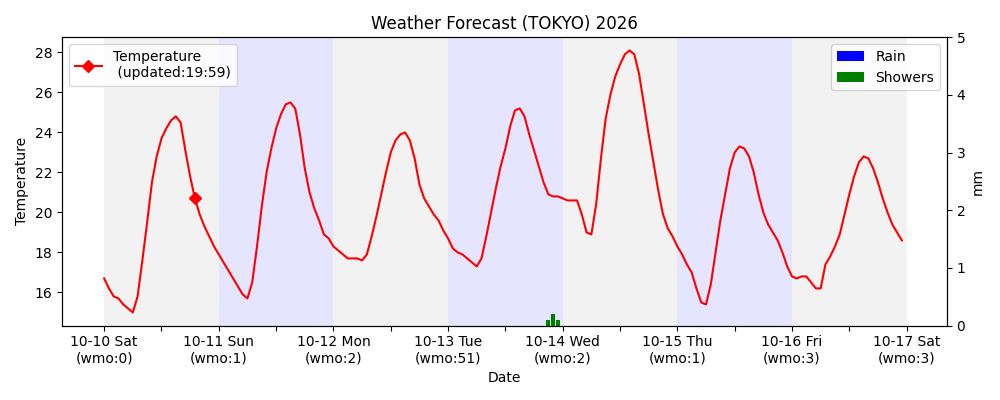
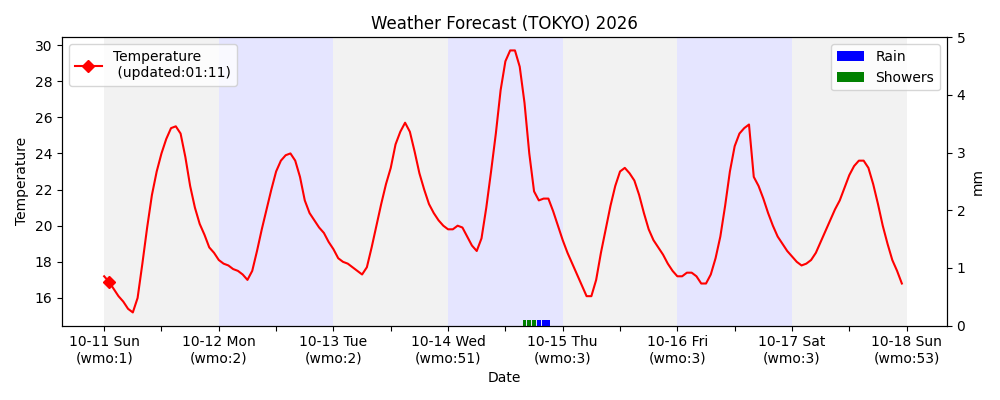
deploy: 1bb196bcdedd97020ef552e9e8359d9822f29f5b

diff --git a/docs/src/dashboard/marketinfo.html b/docs/src/dashboard/marketinfo.html
@@ -6,100 +6,96 @@
             <title>経済・商品市場サマリー</title>
         </head>
         <body>
-            <h1>📊 リアルタイム市場データ (2026/10/10 10:31 時点)</h1>
-            <ul><li><strong>日経平均:</strong> 69042.11 (前日比データ不足)</li><li><strong>NYダウ:</strong> 51654.95 (+0.83%)</li><li><strong>ナスダック:</strong> 27366.17 (+0.64%)</li><li><strong>S&P500:</strong> 7811.54 (+0.59%)</li><li><strong>英FTSE100:</strong> 10441.60 (前日比データ不足)</li><li><strong>独DAX:</strong> 24806.97 (前日比データ不足)</li><li><strong>ドル円 (USD/JPY):</strong> 158.25 (+0.12%)</li><li><strong>ユーロ円 (EUR/JPY):</strong> 177.30 (+0.14%)</li><li><strong>ポンド円 (GBP/JPY):</strong> 209.51 (+0.31%)</li><li><strong>ユーロドル (EUR/USD):</strong> 1.1206 (+0.04%)</li><li><strong>ドルインデックス (DXY):</strong> 102.23 (+0.09%)</li><li><strong>WTI原油先物:</strong> 91.66 (+0.19%)</li><li><strong>ブレント原油先物:</strong> 104.43 (+0.14%)</li><li><strong>天然ガス先物 (米HenryHub):</strong> 3.20 (+1.14%)</li><li><strong>NY金先物 (Gold):</strong> 4220.30 (+1.52%)</li><li><strong>NY銀先物 (Silver):</strong> 61.11 (+3.46%)</li><li><strong>NYプラチナ先物:</strong> 1695.40 (+4.29%)</li><li><strong>COMEX銅先物:</strong> 6.71 (+2.95%)</li><li><strong>CMEアルミニウム先物:</strong> 3191.00 (+1.18%)</li><li><strong>米国債10年物利回り:</strong> 5.244% (+0.013pt)</li><li><strong>米国債2年物利回り:</strong> 4.057% (+0.014pt)</li><li><strong>日本国債10年物利回り:</strong> 配信データなし</li></ul>
+            <h1>📊 リアルタイム市場データ (2026/10/11 00:38 時点)</h1>
+            <ul><li><strong>日経平均:</strong> 69030.92 (-0.02%)</li><li><strong>NYダウ:</strong> 51654.95 (+0.83%)</li><li><strong>ナスダック:</strong> 27366.17 (+0.64%)</li><li><strong>S&P500:</strong> 7811.54 (+0.59%)</li><li><strong>英FTSE100:</strong> 10552.10 (+1.06%)</li><li><strong>独DAX:</strong> 25087.27 (+1.13%)</li><li><strong>ドル円 (USD/JPY):</strong> 158.25 (+0.12%)</li><li><strong>ユーロ円 (EUR/JPY):</strong> 177.10 (-0.07%)</li><li><strong>ポンド円 (GBP/JPY):</strong> 209.51 (+0.31%)</li><li><strong>ユーロドル (EUR/USD):</strong> 1.1206 (+0.04%)</li><li><strong>ドルインデックス (DXY):</strong> 102.21 (+0.07%)</li><li><strong>WTI原油先物:</strong> 91.85 (+0.39%)</li><li><strong>ブレント原油先物:</strong> 104.72 (+0.42%)</li><li><strong>天然ガス先物 (米HenryHub):</strong> 3.22 (+1.64%)</li><li><strong>NY金先物 (Gold):</strong> 4216.30 (+1.43%)</li><li><strong>NY銀先物 (Silver):</strong> 60.67 (+2.72%)</li><li><strong>NYプラチナ先物:</strong> 1679.30 (+3.30%)</li><li><strong>COMEX銅先物:</strong> 6.64 (+1.89%)</li><li><strong>CMEアルミニウム先物:</strong> 3180.00 (+0.83%)</li><li><strong>米国債10年物利回り:</strong> 5.244% (+0.013pt)</li><li><strong>米国債2年物利回り:</strong> 4.057% (+0.014pt)</li><li><strong>日本国債10年物利回り:</strong> 配信データなし</li></ul>
             <hr>
-            <p>直近1週間（2026年10月3日〜10月10日10:31）に確認できる公開情報では、株式市場は中東情勢とエネルギー価格への懸念後退、AI関連への警戒緩和、米金融政策の据え置き観測で支えられました。一方、原油・長期金利・地政学リスクが引き続き市場全体の主要な変動要因です。</p>
+            <p>以下は、検索で確認できた<strong>2026年10月4日〜11日公開・更新情報を中心とするニュースベースの整理</strong>です。原油、LNG、電力、貴金属、LME金属については、今回確認できた検索結果に当該期間の十分な個別報道が含まれていないため、確認できたマクロ要因と、各市場に波及する経路を事実ベースで記載します。</p>
 <h2>📅 主要市場の背景ニュース</h2>
 <ul>
 <li><strong>株価動向の背景</strong></li>
-<li>米国株は、早期の対イラン攻撃再開による原油高懸念が後退したことや、OpenAIの売上高を巡る警戒感が和らいだことで買いが優勢となりました。[1]</li>
-<li>ミシガン大学消費者信頼感指数の内容が、10月FOMCでの金融政策据え置き観測を強め、株式市場を支えました。[1]</li>
-<li>トランプ大統領とプーチン大統領がロシアの軽油供給で合意したと報じられ、燃料価格低下への期待が株価の押し上げ要因となりました。[1]</li>
-<li>直近ではソフトウエア・サービス株が上昇した一方、電気通信サービス株は下落し、AI・成長株を中心にセクター選別が続いています。[1]</li>
+<li>米株は、雇用統計の弱さを受けてインフレ再加速・追加利上げへの懸念が後退し、直近では株式市場が高値圏を維持する流れとなった。前週はS&amp;P 500、NYダウ、ナスダックがそろって上昇したと報じられている。[7]</li>
+<li>9月の米非農業部門雇用者数は29,000人増にとどまり、市場予想を下回った。過去分も下方修正され、7〜8月の雇用増加数は合計で60,000人下方修正された。[5]</li>
+<li>一方、米サービス業の景況感は強く、S&amp;P Globalの9月サービス業PMIは58.7と前月から上昇し、約5年ぶりの高水準となった。雇用の弱さとサービス需要の強さが併存し、金融政策の見方を不安定にしている。[5]</li>
 <li>
-<p>日経平均は、米国株が上昇した一方、CME日経平均先物が大阪取引所終値を下回っており、米株高をそのまま織り込む展開にはなっていません。[2][4]</p>
+<p>日経平均は、米国の追加利上げ観測が後退したことやアジア株高を背景に買われ、10月5日には一時70,000ポイント台に乗せたと報じられた。[7]</p>
 </li>
 <li>
 <p><strong>為替動向の背景</strong></p>
 </li>
-<li>ドル円について、今回確認できた記事では直近の具体的な変動要因を十分に確認できませんでした。</li>
-<li>市場心理としては、米長期金利の高止まりがドルを支えやすい一方、FOMCで政策据え置きが意識される場合には、追加的なドル買いを抑制する要因となります。</li>
-<li>原油価格と米金利、地政学リスクの変化が、ドル円の方向感を左右する組み合わせとなっています。</li>
+<li>ドル円は157円台後半で推移し、米雇用の弱さによる米利上げ観測後退がドルの上値を抑える一方、日米金利差と円売り需要が円安方向の支えとなっている。[7]</li>
+<li>市場では、弱い雇用統計を受けて10月の米利上げ観測が後退した。報道時点で、短期金利市場が織り込む10月利上げ確率は16％まで低下した。[5]</li>
+<li>日本では東京のコアCPIが前年比2.7％、生鮮食品とエネルギーを除くコアコアCPIが3.0％まで加速したと報じられ、円相場では日銀の政策正常化観測が下支え要因となる一方、実際の政策変更時期を巡る不確実性が残る。[5]</li>
 </ul>
 <h2>🛢 エネルギー市場の背景ニュース</h2>
 <ul>
 <li><strong>原油（WTI／ブレント）</strong></li>
-<li>対イラン攻撃再開への懸念が後退し、供給途絶リスクへの警戒が弱まりました。[1]</li>
-<li>トランプ大統領とプーチン大統領のロシア産軽油供給に関する合意報道を受け、燃料供給の改善期待が原油の上値を抑える材料となりました。[1][6]</li>
-<li>一方、報道時点ではブレント原油が一時105ドルを上回る場面もあり、中東情勢や供給懸念が依然として価格の急変要因です。[6]</li>
+<li>今回確認できた直近1週間の検索結果では、OPEC+の新たな供給方針、中東情勢の具体的な変化、米国在庫統計の個別結果を十分に確認できる記事は得られなかった。</li>
+<li>市場を動かす主要な確認対象は、OPEC+の追加増産・減産方針、紅海・中東の供給輸送リスク、米国の原油・ガソリン在庫の方向性である。</li>
 <li>
-<p>OPEC+の新たな方針や直近の在庫統計については、今回確認できた検索結果では具体的な更新内容を確認できませんでした。</p>
+<p>弱い米雇用を背景とする米利上げ観測後退は需要懸念を和らげやすい一方、米サービス業の強さは景気・燃料需要の下支え要因となる。[5]</p>
 </li>
 <li>
 <p><strong>LNG（JKM／TTF）</strong></p>
 </li>
-<li>今回確認できた検索結果では、JKM・TTFの直近1週間の需給、欧州在庫、アジア・欧州の気温予測に関する具体的な報道を確認できませんでした。</li>
+<li>今回確認できた検索結果では、直近1週間のJKM・TTF価格を直接動かす新たなアジア調達、欧州ガス在庫、気温予測に関する十分な個別報道は確認できなかった。</li>
+<li>需給面では、欧州の貯蔵水準、冬季の気温予測、アジアのスポット調達、ロシア産ガスやLNG輸送を巡る供給リスクが引き続き主要な変動要因となる。</li>
 <li>
-<p>市場の基本的な焦点は、欧州の貯蔵在庫の積み上がり、アジアの発電・工業需要、冬季の気温見通し、原油・米国天然ガス価格の連動です。</p>
+<p>原油・ガス価格はドル相場と金利見通しにも影響されるため、米利上げ観測の後退はドル建てエネルギー商品の買いやすさを改善する方向に働く。[5][7]</p>
 </li>
 <li>
 <p><strong>電力（JEPX等）</strong></p>
 </li>
-<li>JEPXの直近の需給状況、気温変動、発電燃料価格との連動に関する具体的なニュースは、今回確認できた検索結果では確認できませんでした。</li>
-<li>日本の電力市場では、LNG・石炭価格、発電所の稼働状況、再生可能エネルギーの出力、季節的な需要変化が主要な価格変動要因となります。</li>
+<li>今回確認できた検索結果では、直近1週間のJEPX約定市場における具体的な需給ひっ迫、発電所停止、燃料制約に関する十分な個別報道は確認できなかった。</li>
+<li>日本の電力市場では、気温変動による冷暖房需要、LNG・石炭価格、太陽光発電の出力、火力発電所の稼働状況が主要な変動要因となる。</li>
+<li>東京の物価上昇が続いていることから、今後の気温低下に伴う暖房需要と燃料調達コストが、電力需給と発電マージンの焦点となる。[5]</li>
 </ul>
 <h2>⚖ 貴金属・非鉄市場の背景ニュース</h2>
 <ul>
 <li><strong>金・銀</strong></li>
-<li>市場速報では、金価格が上昇し、安全資産需要と地政学リスクへの警戒が意識されていることが示されています。[6]</li>
-<li>ただし、金銀の上昇要因をドル相場、米実質金利、中央銀行需要、投資資金流入に分解した直近1週間の詳細報道は、今回確認できた検索結果では限定的でした。</li>
+<li>弱い米雇用統計を受けて10月の利上げ観測が後退し、米金利とドルの上昇圧力が弱まったことは、金・銀など金利を生まない資産を支える要因となる。[5]</li>
+<li>一方、米サービス業PMIは強く、景気が急速に失速しているわけではないことを示したため、金利低下が一方向に進むとは限らない。[5]</li>
 <li>
-<p>米長期金利が高止まりしているため、金にとっては金利上昇が上値を抑える一方、地政学リスクが下支えする構図です。[9]</p>
+<p>貴金属市場では、今後の米CPI、PPI、FOMCを通じた実質金利の変化と、安全資産需要が主要な焦点となる。</p>
 </li>
 <li>
 <p><strong>LME（銅・アルミ）</strong></p>
 </li>
-<li>市場速報では、銅価格が上昇しており、景気敏感資産への買いが入っていることが示されています。[6]</li>
-<li>中国需要、製造業景況感、中国の不動産・インフラ投資、LME在庫の方向性について、今回確認できた検索結果では直近の具体的な材料を確認できませんでした。</li>
-<li>銅は中国の需要見通しと世界的な製造業の回復期待、アルミは電力コスト・製錬所の稼働・在庫動向が引き続き主要な需給要因です。</li>
+<li>今回確認できた検索結果では、直近1週間の中国需要、製造業PMI、LME在庫の具体的な最新変化を十分に確認できなかった。</li>
+<li>銅・アルミは、中国の製造業・不動産・電力網投資の動向と、世界的な景気見通しに強く反応する。</li>
+<li>米国ではサービス業の拡大が続く一方、雇用は弱含んでおり、非鉄金属にとっては需要拡大期待と景気減速懸念が交錯する環境となっている。[5]</li>
+<li>今後は、中国の需要指標、製錬所の減産・供給制約、LME在庫の増減、ドル相場が価格形成の中心となる。</li>
 </ul>
-<h2>🗓 注目イベント（今後1ヶ月）</h2>
+<h2>🗓 注目イベント（今後1か月）</h2>
 <ul>
-<li><strong>10月13日</strong></li>
-<li>
-<p>米連邦準備制度の統計発表が再開される予定です。政府機関の統計日程や、雇用・物価・生産関連データの内容が、FOMCの政策判断への織り込みを左右します。[8]</p>
-</li>
-<li>
-<p><strong>10月27〜28日</strong></p>
-</li>
-<li>FOMCが予定されています。[8]</li>
-<li>
-<p>市場の焦点は、政策金利の据え置きが維持されるか、インフレ・雇用・景気減速に対する評価がどう変化するか、声明文や議長発言が今後の利下げ観測にどの程度影響するかです。</p>
-</li>
-<li>
-<p><strong>今後1ヶ月を通じた主要争点</strong></p>
-</li>
-<li>米国のインフレと雇用の鈍化度合い</li>
-<li>米長期金利の高止まりが株式・金・為替に及ぼす影響</li>
-<li>中東情勢とロシア産燃料供給を巡るエネルギー需給</li>
-<li>中国の製造業・不動産需要が銅など非鉄金属に与える影響</li>
+<li><strong>10月14日：米国9月CPI</strong></li>
+<li>10月FOMC前に確認できる重要なインフレ指標で、追加利上げ観測や米金利・ドルを左右する最大の材料と位置付けられている。[1][4][6]</li>
+<li><strong>10月15日：米国9月PPI、9月小売売上高、週間新規失業保険申請件数、フィラデルフィア連銀製造業景況指数</strong></li>
+<li>物価上流圧力、個人消費、労働市場、製造業の同時確認材料となる。[2][6][9]</li>
+<li><strong>10月16日：米国輸入・輸出物価、鉱工業生産・設備稼働率</strong></li>
+<li>輸入インフレと実体経済の生産動向が焦点となる。[6]</li>
+<li><strong>10月27〜28日：FOMC</strong></li>
+<li>10月28日に政策判断が公表される予定で、9月の弱い雇用統計と、10月14日のCPIを踏まえた利上げ・据え置き判断が争点となる。[1][4]</li>
+<li>今回の会合には経済見通しとドットチャートがない予定で、声明文と議長会見への市場依存度が高まる。[4]</li>
+<li><strong>10月29日：米国9月コアPCE、7〜9月期GDP</strong></li>
+<li>FOMC直後に発表されるため、年末の金融政策見通しを大きく修正する可能性がある。[4]</li>
+<li><strong>10月30日：米国雇用コスト指数、シカゴPMI</strong></li>
+<li>賃金コストと地域製造業の動向を確認する材料となる。[2][4]</li>
 </ul>
 <h2>📝 ひとこと整理</h2>
-<p>市場全体の最大の焦点は、<strong>地政学リスクと燃料供給の変化が原油・インフレ・金利を通じて株式と為替へ波及する経路</strong>です。<br />
-短期的なボラティリティの主因は、イラン・ロシアを巡るエネルギー報道、米長期金利、10月FOMCに向けた金融政策観測の変化です。[1][6][8][9]</p>
+<p>最大の焦点は、<strong>雇用の急速な鈍化とサービス業・物価の粘着性が同時に進むなかで、FRBが利上げを停止するのか、それともインフレ警戒を優先するのか</strong>である。[5]</p>
+<p>10月14日の米CPI、15日のPPI、27〜28日のFOMCが、ドル・金利を通じて株式、貴金属、原油、非鉄金属のボラティリティを左右する最大の材料となる。[1][4][6]</p>
 <h3>📚 参照ソース (Citations):</h3>
 <ol>
-<li><a href="https://s.kabutan.jp/news/n202610100055/">https://s.kabutan.jp/news/n202610100055/</a></li>
-<li><a href="https://s.kabutan.jp/news/n202610100029/">https://s.kabutan.jp/news/n202610100029/</a></li>
-<li><a href="https://s.kabutan.jp/news/n202610100017/">https://s.kabutan.jp/news/n202610100017/</a></li>
-<li><a href="https://s.kabutan.jp/news/n202610100044/">https://s.kabutan.jp/news/n202610100044/</a></li>
-<li><a href="https://fx.minkabu.jp/news/381162">https://fx.minkabu.jp/news/381162</a></li>
-<li><a href="https://finance.sina.cn/headline/2026-10-10/detail-iniusxps0613522.d.html?vt=4&amp;wm=2278_2653?q">https://finance.sina.cn/headline/2026-10-10/detail-iniusxps0613522.d.html?vt=4&amp;wm=2278_2653?q</a></li>
-<li><a href="https://fx.minkabu.jp/news/381153">https://fx.minkabu.jp/news/381153</a></li>
-<li><a href="https://www.federalreserve.gov/newsevents/2026-october.htm">https://www.federalreserve.gov/newsevents/2026-october.htm</a></li>
-<li><a href="https://trust.sbishinseibank.co.jp/market/?intcid=trus_mar_mega_07">https://trust.sbishinseibank.co.jp/market/?intcid=trus_mar_mega_07</a></li>
-<li><a href="https://advance.quote.nomura.co.jp/meigara/nomura2/users/asp/ny.asp?F=users/nomura/ny/hp">https://advance.quote.nomura.co.jp/meigara/nomura2/users/asp/ny.asp?F=users/nomura/ny/hp</a></li>
+<li><a href="https://www.regardsofwallstreet.com/tools/economic-calendar">https://www.regardsofwallstreet.com/tools/economic-calendar</a></li>
+<li><a href="https://www.scotiabank.com/ca/en/about/economics/economics-publications/post.other-publications.calendar-of-economic-release-dates.calendar-of-economic-release-dates--october-2026-.html">https://www.scotiabank.com/ca/en/about/economics/economics-publications/post.other-publications.calendar-of-economic-release-dates.calendar-of-economic-release-dates--october-2026-.html</a></li>
+<li><a href="https://www.marketwatch.com/economy-politics/calendar">https://www.marketwatch.com/economy-politics/calendar</a></li>
+<li><a href="https://www.cryptohopper.com/news/october-2026-macro-catalyst-outlook-13370">https://www.cryptohopper.com/news/october-2026-macro-catalyst-outlook-13370</a></li>
+<li><a href="https://www.newsquawk.com/daily/5790-week-in-focus-4-9th-october-2026-fomc-minutes-us-ism-services-pmi-opec-canadian-jobs-and-ecb-minutes">https://www.newsquawk.com/daily/5790-week-in-focus-4-9th-october-2026-fomc-minutes-us-ism-services-pmi-opec-canadian-jobs-and-ecb-minutes</a></li>
+<li><a href="https://www.newyorkfed.org/research/calendars/i-oct26.html">https://www.newyorkfed.org/research/calendars/i-oct26.html</a></li>
+<li><a href="https://ca.finance.yahoo.com/news/asian-shares-higher-easing-worries-041901071.html">https://ca.finance.yahoo.com/news/asian-shares-higher-easing-worries-041901071.html</a></li>
+<li><a href="https://investinglive.com/news/week-ahead-ism-services-fed-minutes-and-canadian-jobs-lead-the-economic-calendar-be-aware/">https://investinglive.com/news/week-ahead-ism-services-fed-minutes-and-canadian-jobs-lead-the-economic-calendar-be-aware/</a></li>
+<li><a href="https://investinglive.com/news/week-ahead-us-inflation-and-retail-sales-lead-a-busy-economic-calendar-be-aware/">https://investinglive.com/news/week-ahead-us-inflation-and-retail-sales-lead-a-busy-economic-calendar-be-aware/</a></li>
+<li><a href="https://xoomar.com/markets/calendar">https://xoomar.com/markets/calendar</a></li>
 </ol>
 <hr />
 <p><strong>免責事項 (Disclaimer):</strong>

diff --git a/docs/src/dashboard/forecast_text.html b/docs/src/dashboard/forecast_text.html
@@ -1,12 +1,7 @@
-<h1>今日の天気 (10-10 Sat)</h1>
-<p>2026年10月10日の東京の天気予報をお伝えします。</p>
-<p><strong>天気概況</strong>:
-この日は一日を通して<strong>快晴</strong>となるでしょう。青空が広がり、気持ちの良い秋晴れとなりそうです。</p>
-<p><strong>気温</strong>:
-最低気温は16℃前後、最高気温は25℃近くまで上がる予想です。日中は日差しが暖かく感じられるでしょう。</p>
-<p><strong>降水</strong>:
-雨の心配は全くありません。傘の出番はないでしょう。</p>
-<hr />
-<p><strong>日傘の必要性について</strong>:
-この日の予想UVインデックスは<strong>最大で5.7</strong>と、紫外線が「やや強い」レベルまで上がる見込みです。また、日照時間は約10.7時間と、朝から夕方まで一日中しっかりと日差しが降り注ぐでしょう。</p>
-<p><strong>結論として、日傘は持っていくことを強くお勧めします。</strong> 日差しの強い時間帯の外出では、紫外線対策としてだけでなく、体感温度を下げる効果も期待できます。快適に過ごすためにも、ぜひご活用ください。</p>
+<h1>今日の天気 (10-11 Sun)</h1>
+<p>はい、承知いたしました。2026年10月11日の東京の天気予報をお伝えします。</p>
+<p><strong>【今日の天気】</strong>
+今日の東京は、一日を通して<strong>快晴</strong>となるでしょう。降水の心配は全くありません。
+朝晩は16℃前後と肌寒いですが、日中はぐんぐん気温が上がり、最高気温は25℃を超える見込みです。日差しが暖かく感じられるでしょう。</p>
+<p><strong>【日傘について】</strong>
+今日のUVインデックスは最大で<strong>5.7</strong>と「中程度」から「強い」レベルに達します。また、日照時間も非常に長いため、<strong>日傘がお役立ちになるでしょう。</strong> 日中の強い日差しから肌を守るため、お出かけの際には日傘や帽子などの紫外線対策をしっかりとしてくださいね。</p>
